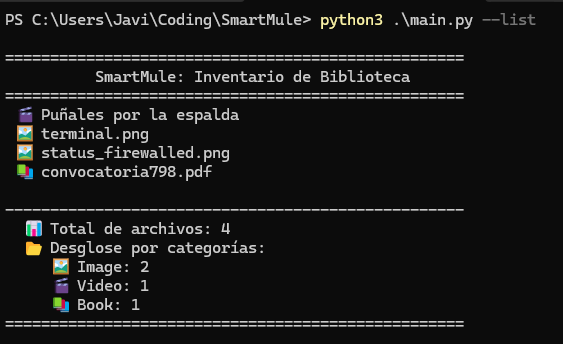
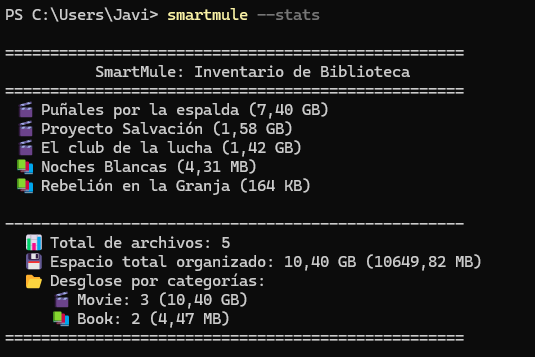
feat: Improved info displayed with --stats flag.

diff --git a/main.py b/main.py
@@ -532,7 +532,7 @@ def show_stats() -> None:
     db = HashDatabase(DB_PATH)
     try:
         stats = db.get_stats()
-        files = db.get_all_files()
+        files = db.get_all_files(order_by_size=True)
 
         print("\n===================================================")
         print("          SmartMule: Inventario de Biblioteca")
@@ -551,6 +551,20 @@ def show_stats() -> None:
             "unknown": "❓"
         }
 
+        # Función auxiliar para formatear tamaños de forma legible (GB, MB, KB o Bytes)
+        def format_size(bytes_size: float) -> str:
+            if bytes_size >= 1024**3:
+                val = f"{bytes_size / (1024**3):.2f}"
+                return f"{val.replace('.', ',')} GB"
+            elif bytes_size >= 1024**2:
+                val = f"{bytes_size / (1024**2):.2f}"
+                return f"{val.replace('.', ',')} MB"
+            elif bytes_size >= 1024:
+                val = int(bytes_size / 1024)
+                return f"{val} KB"
+            else:
+                return f"{int(bytes_size)} B"
+
         if not files:
             print("\n[i] La biblioteca está vacía.")
         else:
@@ -563,20 +577,41 @@ def show_stats() -> None:
                 if len(title) > 60:
                     title = title[:57] + "..."
                 
-                print(f" {icon} {title}")
+                size_str = format_size(f.get("file_size", 0))
+                print(f" {icon} {title} ({size_str})")
 
         print("\n---------------------------------------------------")
         print(f"  📊 Total de archivos: {stats['total']}")
         
-        # Calculamos el tamaño total en GB (Bytes / 1024^3)
-        total_gb = stats.get("total_size", 0) / (1024**3)
-        print(f"  💾 Espacio total organizado: {total_gb:.2f} GB")
+        # Tamaño total con unidad principal y sub-unidad
+        total_bytes = stats.get("total_size", 0)
+        main_size_str = format_size(total_bytes)
         
+        # Determinamos la sub-unidad para el paréntesis
+        if total_bytes >= 1024**3: # Si es GB, mostramos MB
+            sub_val = f"{total_bytes / (1024**2):.2f}"
+            sub_size_str = f"{sub_val.replace('.', ',')} MB"
+            print(f"  💾 Espacio total organizado: {main_size_str} ({sub_size_str})")
+
+        elif total_bytes >= 1024**2: # Si es MB, mostramos KB
+            sub_val = f"{total_bytes / 1024:.2f}"
+            sub_size_str = f"{sub_val.replace('.', ',')} KB"
+            print(f"  💾 Espacio total organizado: {main_size_str} ({sub_size_str})")
+
+        else: # Para KB o Bytes, no mostramos sub-unidad o mostramos bytes
+            print(f"  💾 Espacio total organizado: {main_size_str}")
+        
+        # Desglose por categorías
         if stats["categories"]:
+            
             print("  📂 Desglose por categorías:")
+
             for cat, count in stats["categories"].items():
                 icon = CATEGORY_ICONS.get(cat, "❓")
-                print(f"     {icon} {cat.capitalize()}: {count}")
+
+                # Tamaño por categoría dinámico
+                cat_bytes = stats["category_sizes"].get(cat, 0)
+                print(f"     {icon} {cat.capitalize()}: {count} ({format_size(cat_bytes)})")
         
         print("===================================================\n")
 

diff --git a/smartmule/database.py b/smartmule/database.py
@@ -860,13 +860,18 @@ class HashDatabase:
 
 
     # Función para obtener todos los registros (para el flag --list)
-    def get_all_files(self) -> list[dict]:
+    def get_all_files(self, order_by_size: bool = False) -> list[dict]:
 
         """
-        Devuelve todos los archivos registrados en la base de datos, ordenados por fecha de procesamiento (los más recientes primero).
+        Devuelve todos los archivos registrados en la base de datos.
+        Por defecto los ordena por fecha de procesamiento (recientes primero), pero permite ordenar por tamaño.
         """
 
-        sql = "SELECT * FROM files ORDER BY processed_at DESC"
+        if order_by_size:
+            sql = "SELECT * FROM files ORDER BY file_size DESC"
+        else:
+            sql = "SELECT * FROM files ORDER BY processed_at DESC"
+            
         cursor = self._conn.execute(sql)
         return [dict(row) for row in cursor.fetchall()]
 
@@ -881,7 +886,8 @@ class HashDatabase:
         stats = {
             "total": 0,
             "total_size": 0,
-            "categories": {}
+            "categories": {},
+            "category_sizes": {}
         }
 
         try:
@@ -891,10 +897,11 @@ class HashDatabase:
             stats["total"] = row[0]
             stats["total_size"] = row[1] or 0
 
-            # 2. Obtener conteo por categoría
-            cursor = self._conn.execute("SELECT media_type, COUNT(*) FROM files GROUP BY media_type ORDER BY COUNT(*) DESC")
+            # 2. Obtener conteo y tamaño por categoría
+            cursor = self._conn.execute("SELECT media_type, COUNT(*), SUM(file_size) FROM files GROUP BY media_type ORDER BY COUNT(*) DESC")
             for row in cursor.fetchall():
                 stats["categories"][row[0]] = row[1]
+                stats["category_sizes"][row[0]] = row[2] or 0
             
         except Exception as e:
             logger.error(f"[ERR]  Error al obtener estadísticas de la BBDD: {e}")

diff --git a/README_EN.md b/README_EN.md
@@ -204,13 +204,21 @@ SmartMule is designed to run once and remain monitoring permanently in a complet
     ```
     ![alt text](/images/logs.png)
 
-*   **Inventory and Statistics**: To quickly see which files are registered in the library, the breakdown by category, and the total storage used, use the `--stats` flag. To check system health and dependencies, use `--status`. To check your active paths and APIs, use `--config`:
-    ```bash
-    smartmule --stats     # View statistics
-    smartmule --status    # Check system health
-    smartmule --config    # View active configuration
-    ```
+*   **Inventory and Statistics**: 
+
+    To quickly see which files are registered in the library, a detailed breakdown by category (including space used in GB/MB), and the total storage used, use the `--stats` flag. 
+
     ![alt text](/images/inventory.png)
+
+
+    To check system health and dependencies, use `--status`. 
+
+    > Pending image...
+
+    To check your active paths and APIs, use `--config`:
+
+    ![alt text](/images/config.png)
+
 
 *   **Intelligent Search**: To quickly locate any file by its official title or original name, use the `--search` flag. The FTS5 engine allows for fast and accent-insensitive searches:
     ```bash

diff --git a/README.md b/README.md
@@ -201,15 +201,21 @@ SmartMule está diseñado para ejecutarse una sola vez y quedarse vigilando perm
 
     ![alt text](/images/logs.png)
 
-*   **Inventario y Estadísticas**: Para ver rápidamente qué archivos están registrados en la biblioteca, el desglose por categorías (Películas, Libros, etc.) y el tamaño total ocupado, usa el flag `--stats`. Para verificar el estado de salud y dependencias del sistema, usa `--status`. Si quieres verificar qué rutas y APIs tienes activas, usa `--config`:
-    ```bash
-    smartmule --stats     # Ver estadísticas
-    smartmule --status    # Chequear salud del sistema
-    smartmule --config    # Ver configuración activa
-    ```
+*   **Inventario y Estadísticas**: 
+
+    Para ver rápidamente qué archivos están registrados en la biblioteca, el desglose detallado por categorías (con su correspondiente espacio en GB/MB) y el tamaño total ocupado, usa el flag `--stats`. 
 
     ![alt text](/images/inventory.png)
 
+
+    Para verificar el estado de salud y dependencias del sistema, usa `--status`. 
+
+    > Imagen pendiente...
+
+
+    Para verificar qué rutas y APIs tienes activas, usa `--config`:
+
+    ![alt text](/images/config.png)
 
 ---
 

diff --git a/AGENTS.md b/AGENTS.md
@@ -60,7 +60,7 @@ The ED2K hashing in `smartmule/hasher.py` uses a hybrid model:
 
 ### Key Logic: Database Concurrency (WAL Mode)
 SmartMule uses **SQLite Write-Ahead Logging (WAL)** to allow concurrent read and write operations.
-- **Benefit**: You can perform `--search` or `--stats` queries from the CLI while the background daemon is writing new records without encountering `database is locked` errors.
+- **Benefit**: You can perform `--search` or `--stats` (which provides breakdown by files and space per category in GB/MB) queries from the CLI while the background daemon is writing new records without encountering `database is locked` errors.
 - **Sync Mode**: Set to `NORMAL` for a balance between safety and performance.
 
 ### Key Logic: Resource-Efficient Queue
